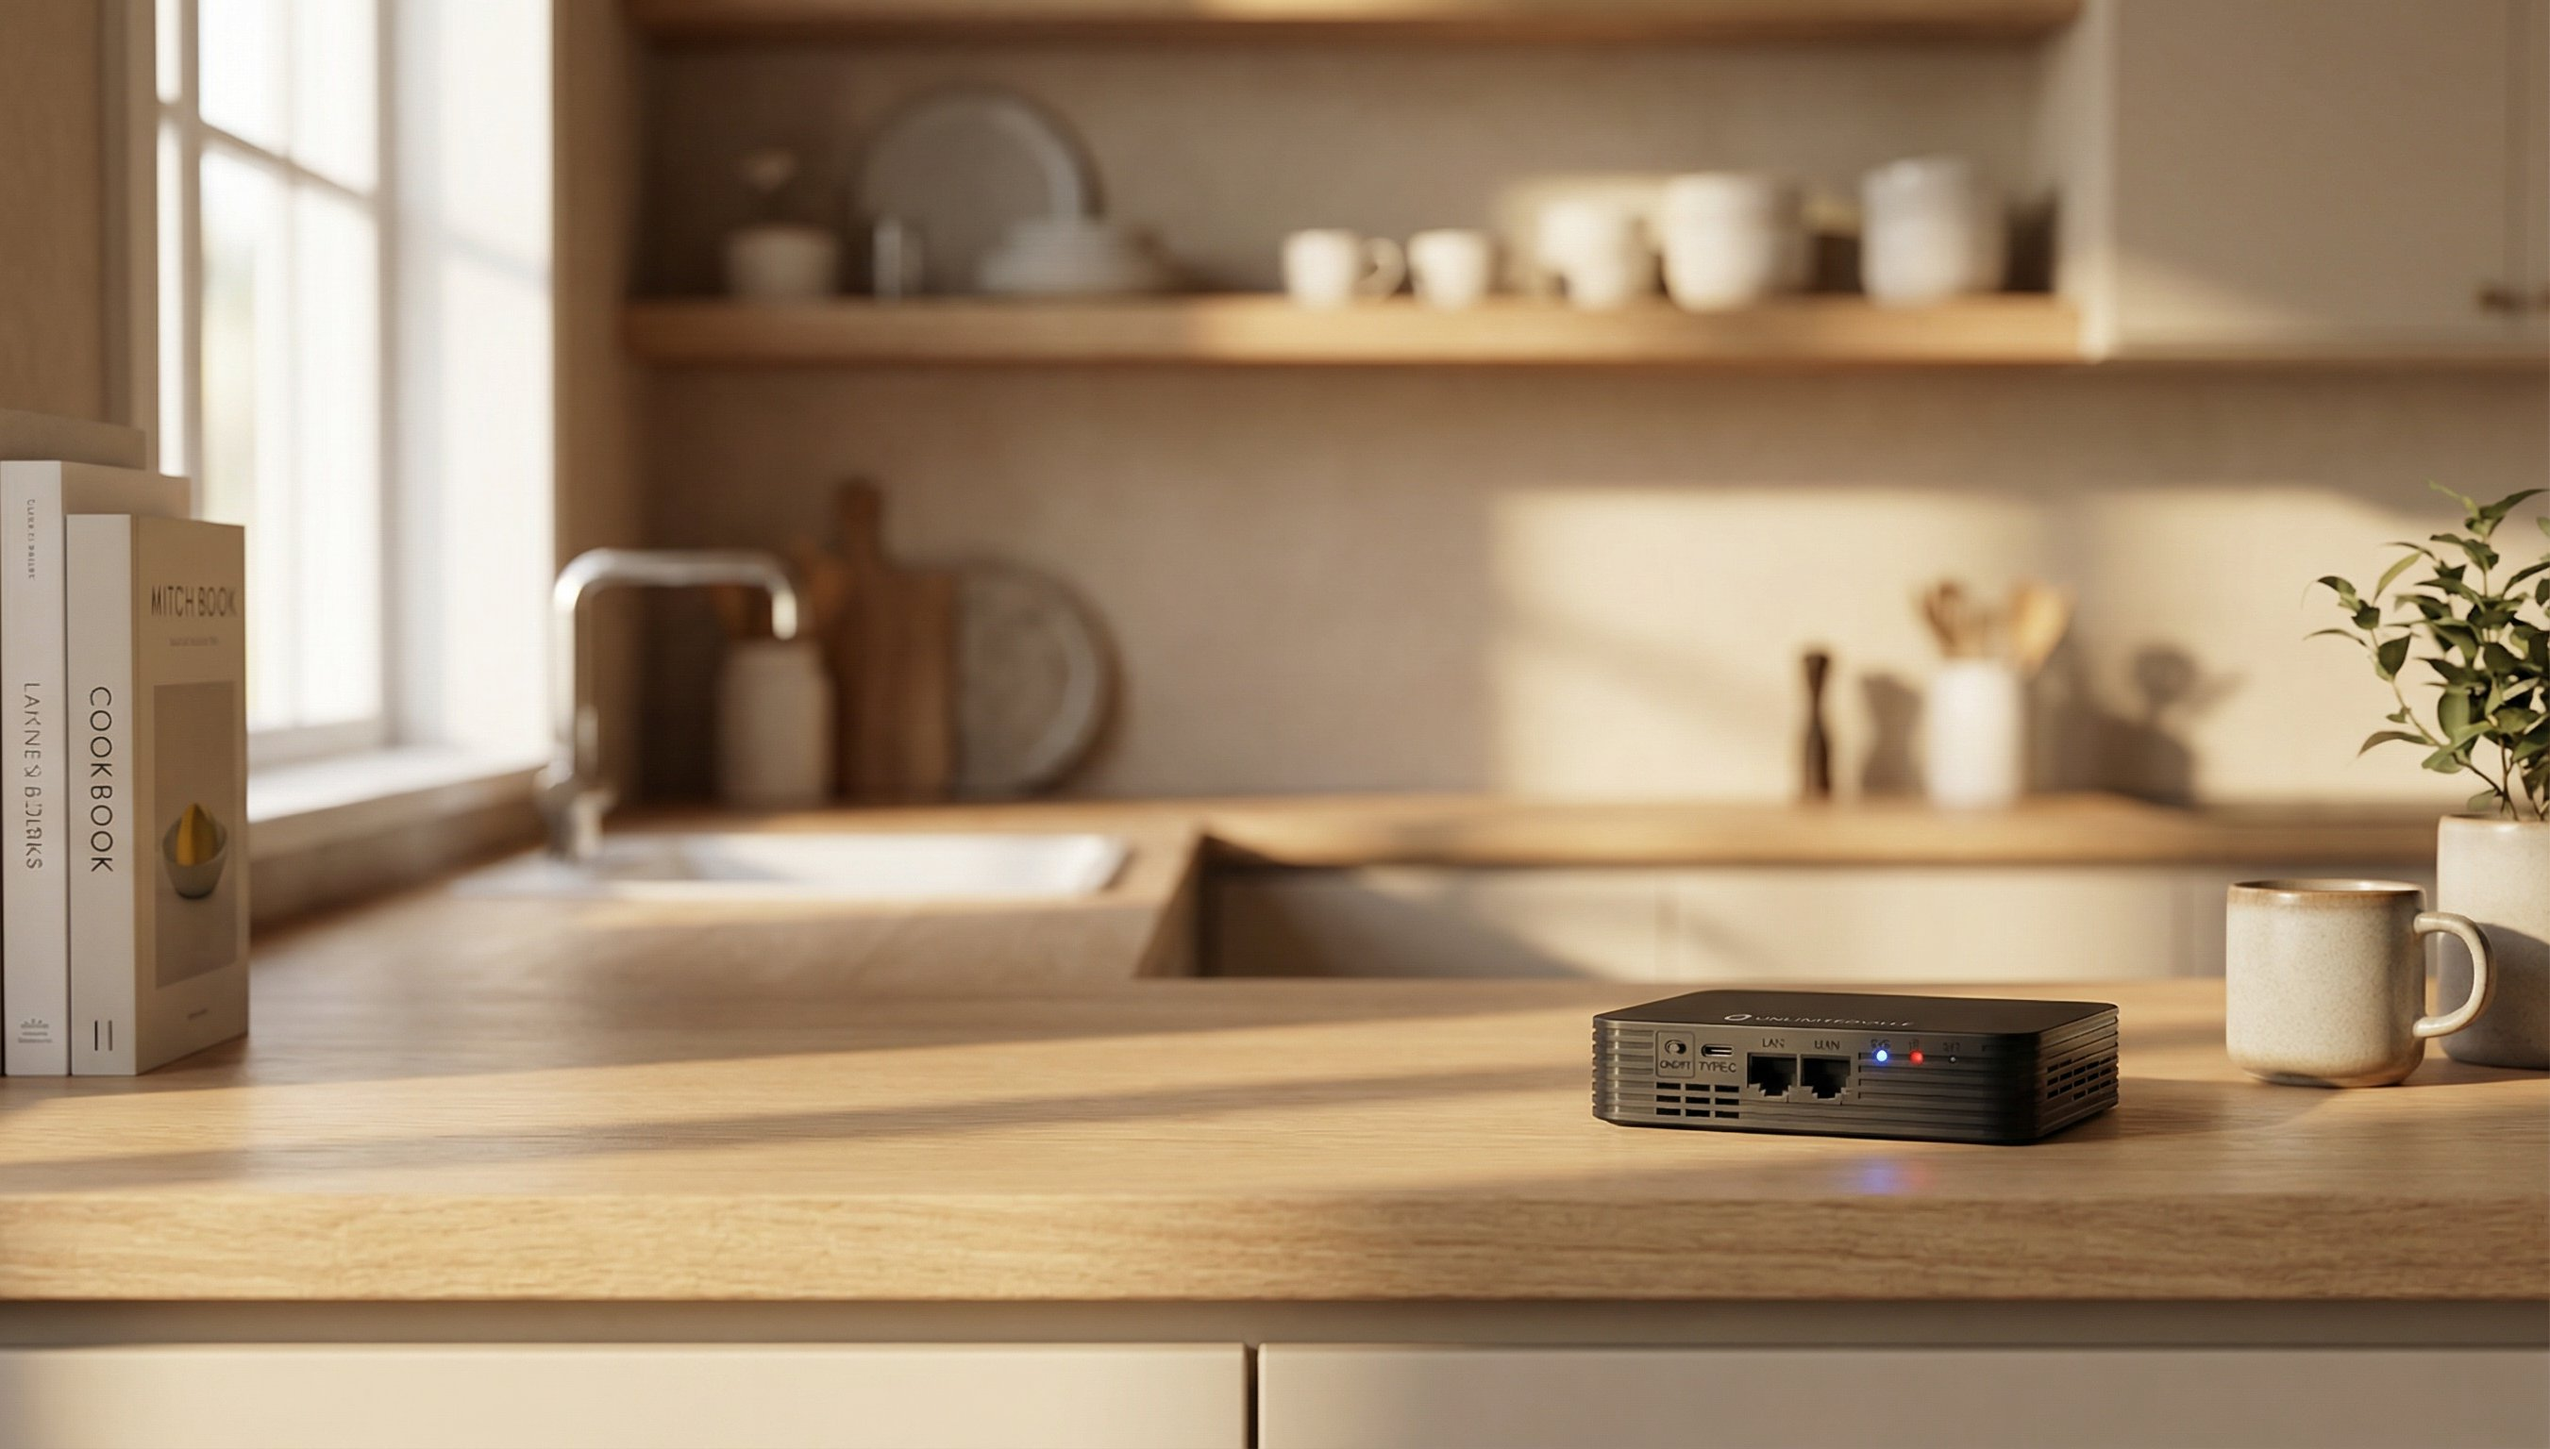
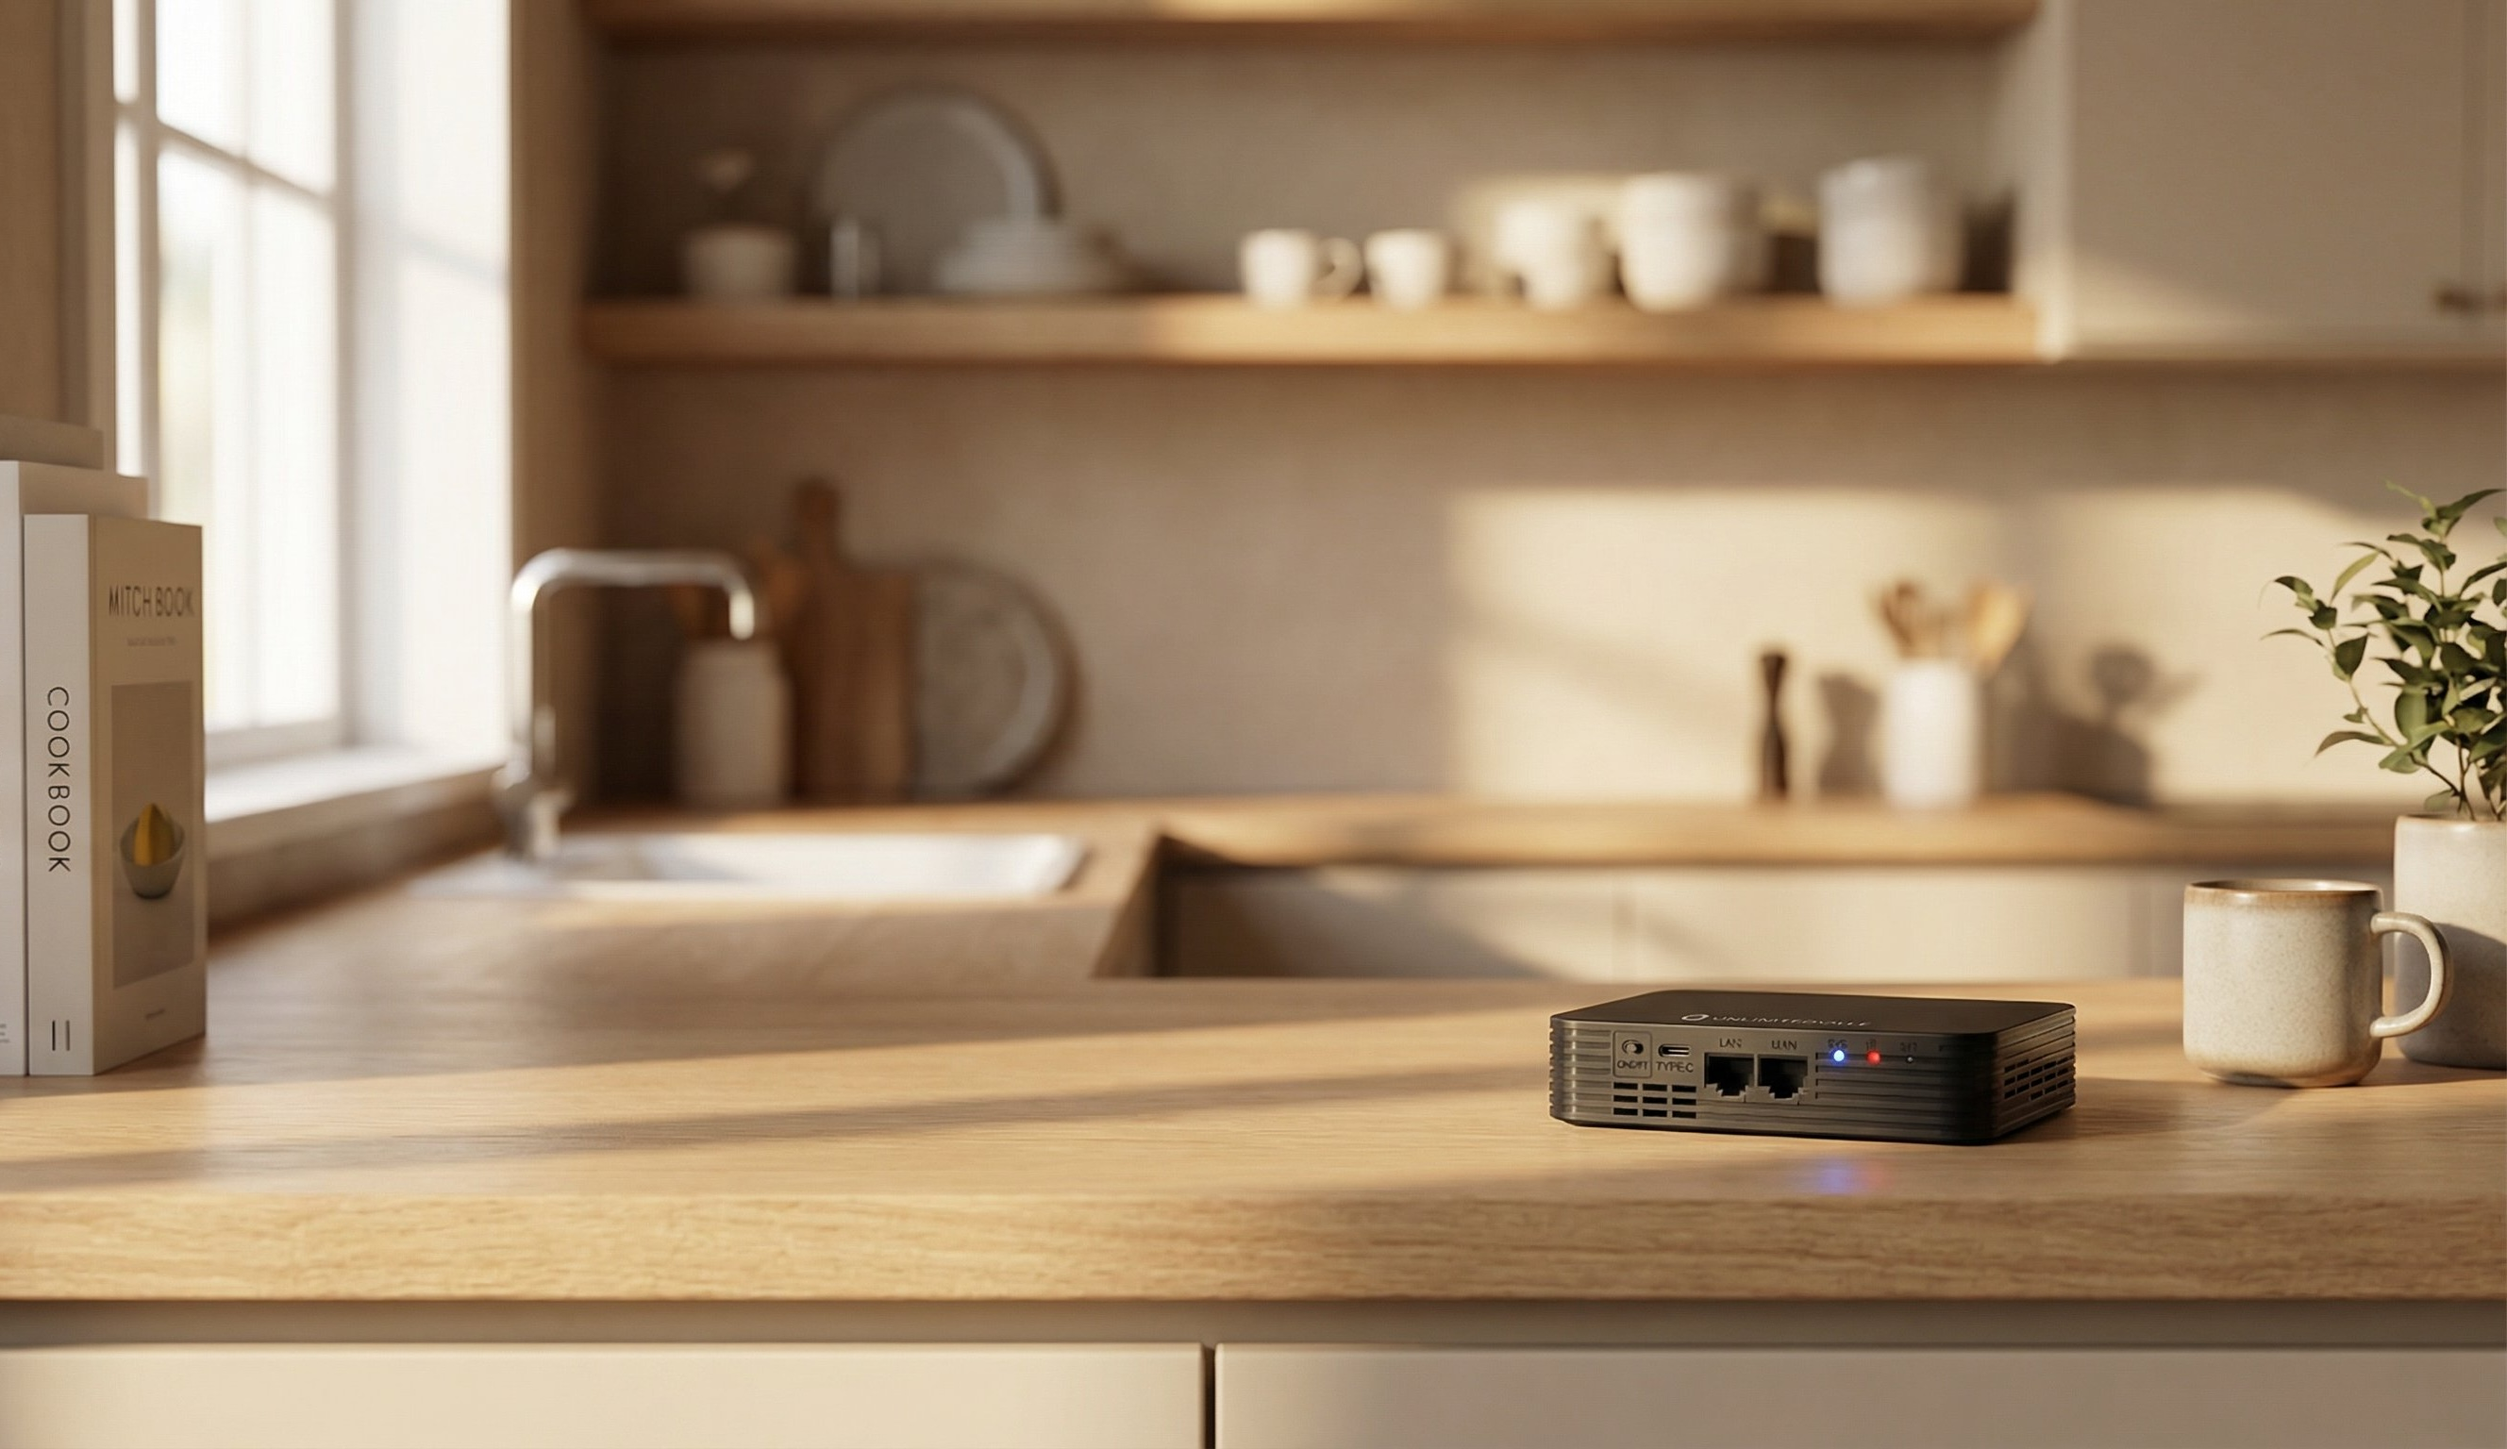
Add Plans page hero image and imgStyle prop to PageHero
Converts uploaded living room image to hero-plans.jpg and wires it up.
Adds imgStyle prop to PageHero for per-page image positioning control.
Uses objectPosition 15% 60% to keep the router visible on mobile where
horizontal cropping would otherwise cut off the left side of the image.

diff --git a/index.html b/index.html
@@ -1372,11 +1372,11 @@ function PressStrip({ border=false }) {
    PageHero + CoverageCheck -- used by Home, Plans, and future landing pages.
    One styling change here updates every page.
    ═══════════════════════════════════════ */
-function PageHero({ title, subtitle, ctaText, ctaAction, bullets, minHeight="92svh", heroTitleClass="hero-title", heroSubClass="hero-subtitle", imgAlt="", heroImg, landing=false }) {
+function PageHero({ title, subtitle, ctaText, ctaAction, bullets, minHeight="92svh", heroTitleClass="hero-title", heroSubClass="hero-subtitle", imgAlt="", heroImg, landing=false, imgStyle }) {
   const isLanding = landing || (heroTitleClass !== "hero-title" && heroTitleClass !== "plans-hero-title");
   return (
     <section className="hero-section flex flex-col relative overflow-hidden bg-uv-dark" style={{minHeight}}>
-      <img src={heroImg || SITE_IMG} alt={imgAlt} className="absolute w-full h-full object-cover" style={{inset:0, objectPosition:"center 60%"}} />
+      <img src={heroImg || SITE_IMG} alt={imgAlt} className="absolute w-full h-full object-cover" style={{inset:0, objectPosition:"center 60%", ...imgStyle}} />
       <div className={`${isLanding ? "lp-hero-gradient" : ""} absolute`} style={{inset:0, background:"linear-gradient(180deg, rgba(10,10,10,0.4) 0%, rgba(10,10,10,0.3) 30%, rgba(10,10,10,0.35) 55%, rgba(10,10,10,0.7) 80%, rgba(10,10,10,0.9) 100%)"}} />
       <div className={`${isLanding ? "lp-hero-inner" : ""} flex-1 flex flex-col relative z-[1] py-0 px-6`} style={{alignItems:isLanding?undefined:"center", textAlign:isLanding?undefined:"center"}}>
         {/* Reviews badge */}
@@ -2520,7 +2520,9 @@ function PlansPage() {
         minHeight="72svh"
         heroTitleClass="plans-hero-title"
         heroSubClass="plans-hero-subtitle"
-        imgAlt="Unlimitedville plans and pricing - wireless internet with no contracts"
+        heroImg="assets/images/hero-plans.jpg?v=1"
+        imgStyle={{objectPosition:"15% 60%"}}
+        imgAlt="Unlimitedville router in a bright living room with people streaming on tablet and working on laptop"
       />
       <PressStrip border={true} />
       <CoverageCheck />
